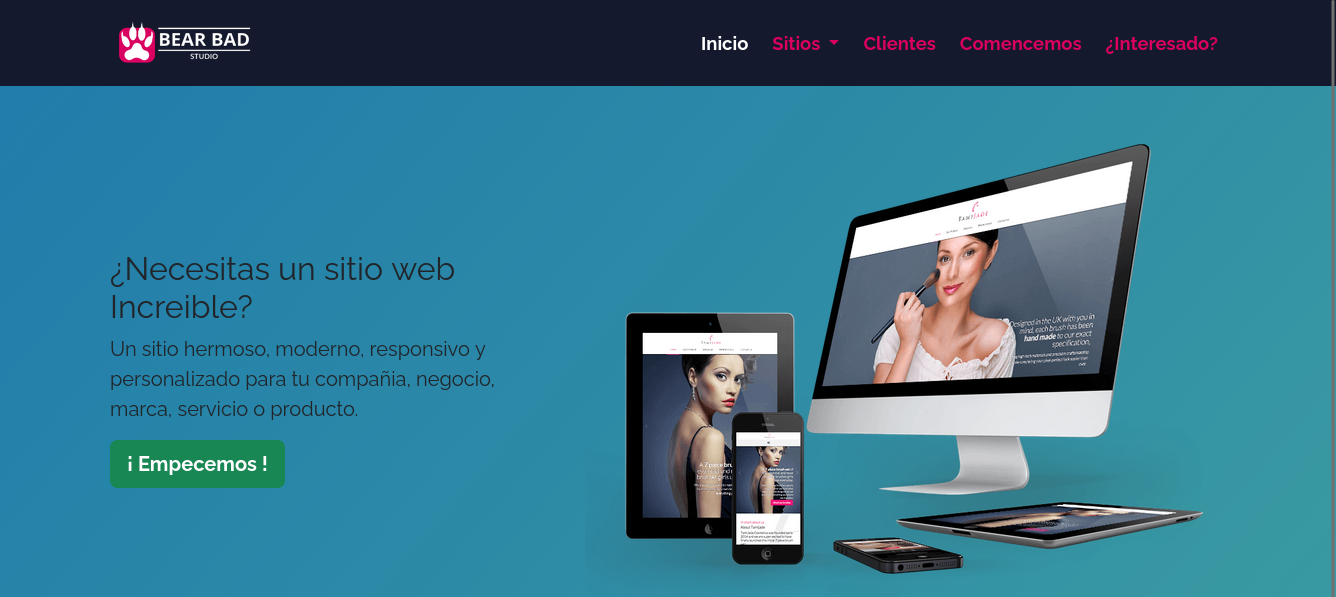
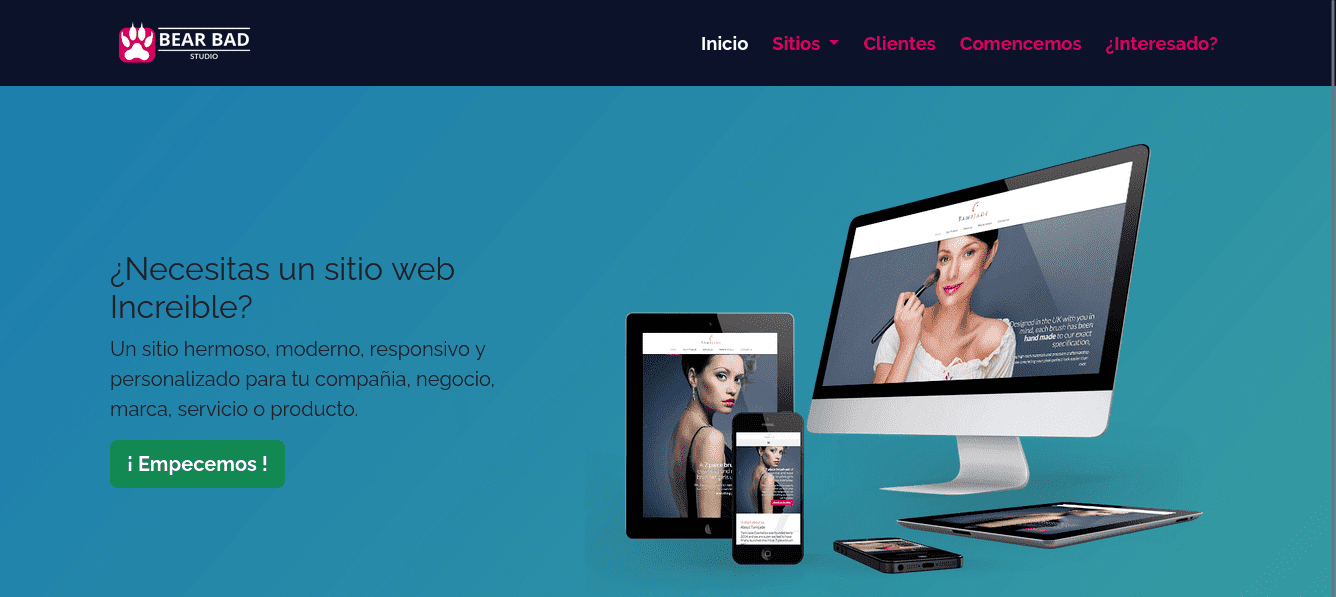
reasignamos nuevos iconos y imagenes mas comprimidas

diff --git a/src/components/Submodules.jsx b/src/components/Submodules.jsx
@@ -1,4 +1,5 @@
 import style from '../styles/Submodule.module.css';
+import imagen from "../Imagenes"
 
 export function Botton(props) {
   return (
@@ -12,10 +13,11 @@ export function SocialItems() {
   return (
     <div className={style.social_network}>
       <a href="https://www.linkedin.com/in/hansselperez/" target="_blank">
-        <i
+        {/* <i
           className="fa-brands fa-linkedin 
             fa-2x"
-        ></i>
+        ></i> */}
+       <img style={{width:"1.8em"}} src={imagen[6].icon_linkedin} alt="" />
       </a>
       <a href="https://www.instagram.com/diegohanssel_perez/" target="_blank">
         <i className="fa-brands fa-instagram-square fa-2x"></i>

diff --git a/src/Imagenes.js b/src/Imagenes.js
@@ -4,6 +4,7 @@ import Homework from '../src/assets/img/captura_homework-list.png'
 import BadBear from '../src/assets/img/captura_bear_bad_studio.png'
 import MiPortfolio from '../src/assets/img/captura_portfolio(1).png'
 import PI_Henry_Videogames from "../src/assets/img/PI_Henry.png"
+import linkedin from "../src/assets/icons/linkedin.png"
 
 export default [
     {
@@ -30,5 +31,8 @@ export default [
     {
         "img6":PI_Henry_Videogames,
         "alt":"PI_Henry_Videogames"
+    }, {
+        "icon_linkedin": linkedin
     }
+
 ]

diff --git a/src/styles/Submodule.module.css b/src/styles/Submodule.module.css
@@ -20,8 +20,17 @@
 
 .social_network {
   display: flex;
+  align-items: center;
   justify-content: space-evenly;
   width: 300px;
+}
+
+.social_network a img {
+  background-color: #14ccb4;
+  color: transparent;
+  text-align: center;
+  padding: 0;
+  margin: 0;
 }
 
 .social_network a {

diff --git a/src/components/Proyectos.jsx b/src/components/Proyectos.jsx
@@ -1,5 +1,5 @@
 import style from '../styles/Proyecto.module.css'
-import imagen from '../Imegenes.js'
+import imagen from '../Imagenes.js'
 import { Botton } from './Submodules';
 
 export function Proyectos(){

diff --git a/src/styles/Proyecto.module.css b/src/styles/Proyecto.module.css
@@ -1,6 +1,6 @@
 :root {
   --azul-marino: #0827c9;
-  --azul-turquesa: #14cdb3;
+  --azul-turquesa: #14ccb4;
   --bottones: #7611ed;
 }
 
